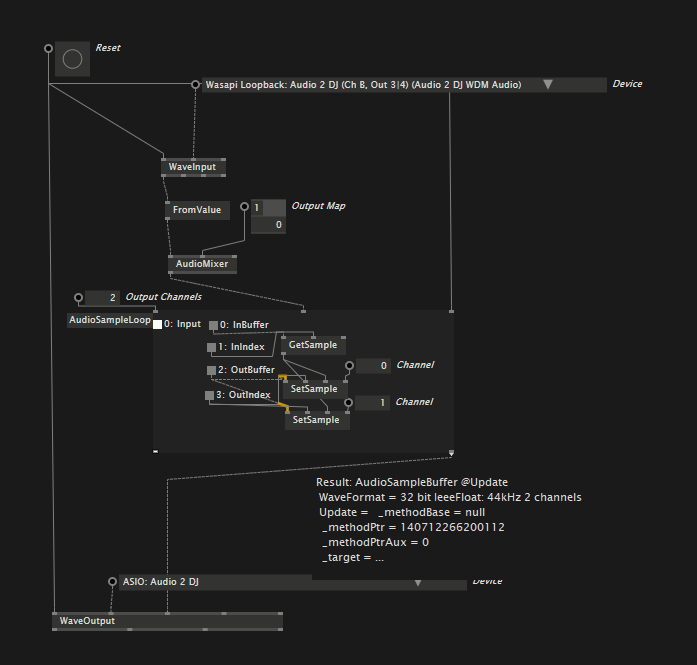
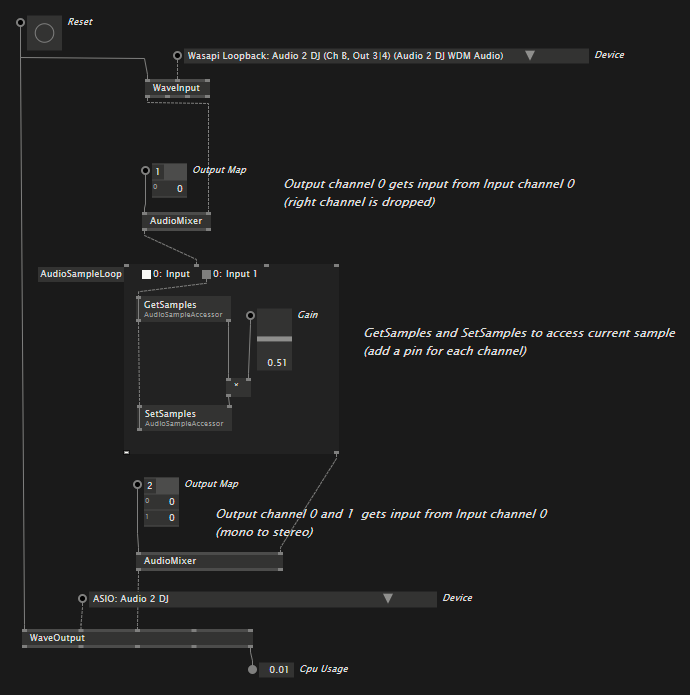
readme

diff --git a/README.md b/README.md
@@ -30,26 +30,23 @@ Takes a Spread of AudioSampleBuffers (with any number of channels) and a Spread 
 
 A custom region, that loops over an AudioSampleBuffer in the sound render thread.
 
-Inputs per iteration are:
-* 0-InBuffer: Reference to the input AudioSampleBuffer (float[])
-* 1-InIndex: Position in the input buffer for the current iteration
-* 2-OutBuffer: Reference to the output AudioSampleBuffer (float[])
-* 3-OutIndex: Position in the output buffer for the current iteration
-
-To access the sample(s) for the current iteration, you may use Get/SetSample.
+In each iteration you have access to an AudioSampleAccessor. Use this with the Get/SetSample Operations to access samples per input/output channel.
 
 If you want to use any time related VL Nodes, connect the supplied clock to your nodes. This clock ticks on sample base.
 
-#### Get/SetSample
+#### Get/SetSamples
 
-Small helper to access a single sample. Only useful inside an AudioSampleLoop.
+Operations to gain access to samples per channel in AudioSampleLoop. 
 
-* GetSample needs the InBuffer, InIndex and the channel to read from
-* SetSample needs the OutBuffer, OutIndex and the channel to write to
+#### FFT
+
+Provides FFT data in raw format (real and imaginary part). See example for conversion to bins.
 
 #### VCV
 
-For some advance examples, check out the NewAudio.CV example.
+For some advance examples, check out Sample.CV for some crazy control voltage like machines.
+
+Currently there are some remakes of a VCO, VCF, LFO and a Delay.
 
 ![Sample2](help/vcv.png)
 
